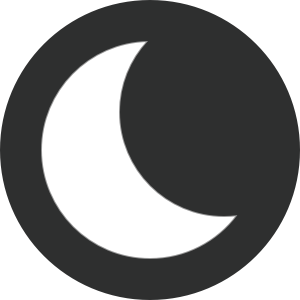
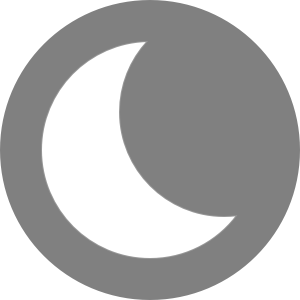
NavBar optimised & About background shade

diff --git a/.render_temp_index.html.html b/.render_temp_index.html.html
@@ -456,3 +456,4 @@ padding: 5vh;
       
 </style>
 </html>
+<script>window.scrollTo(0, 0); setTimeout(function() { window.scrollTo(0, 0); },200)</script>
